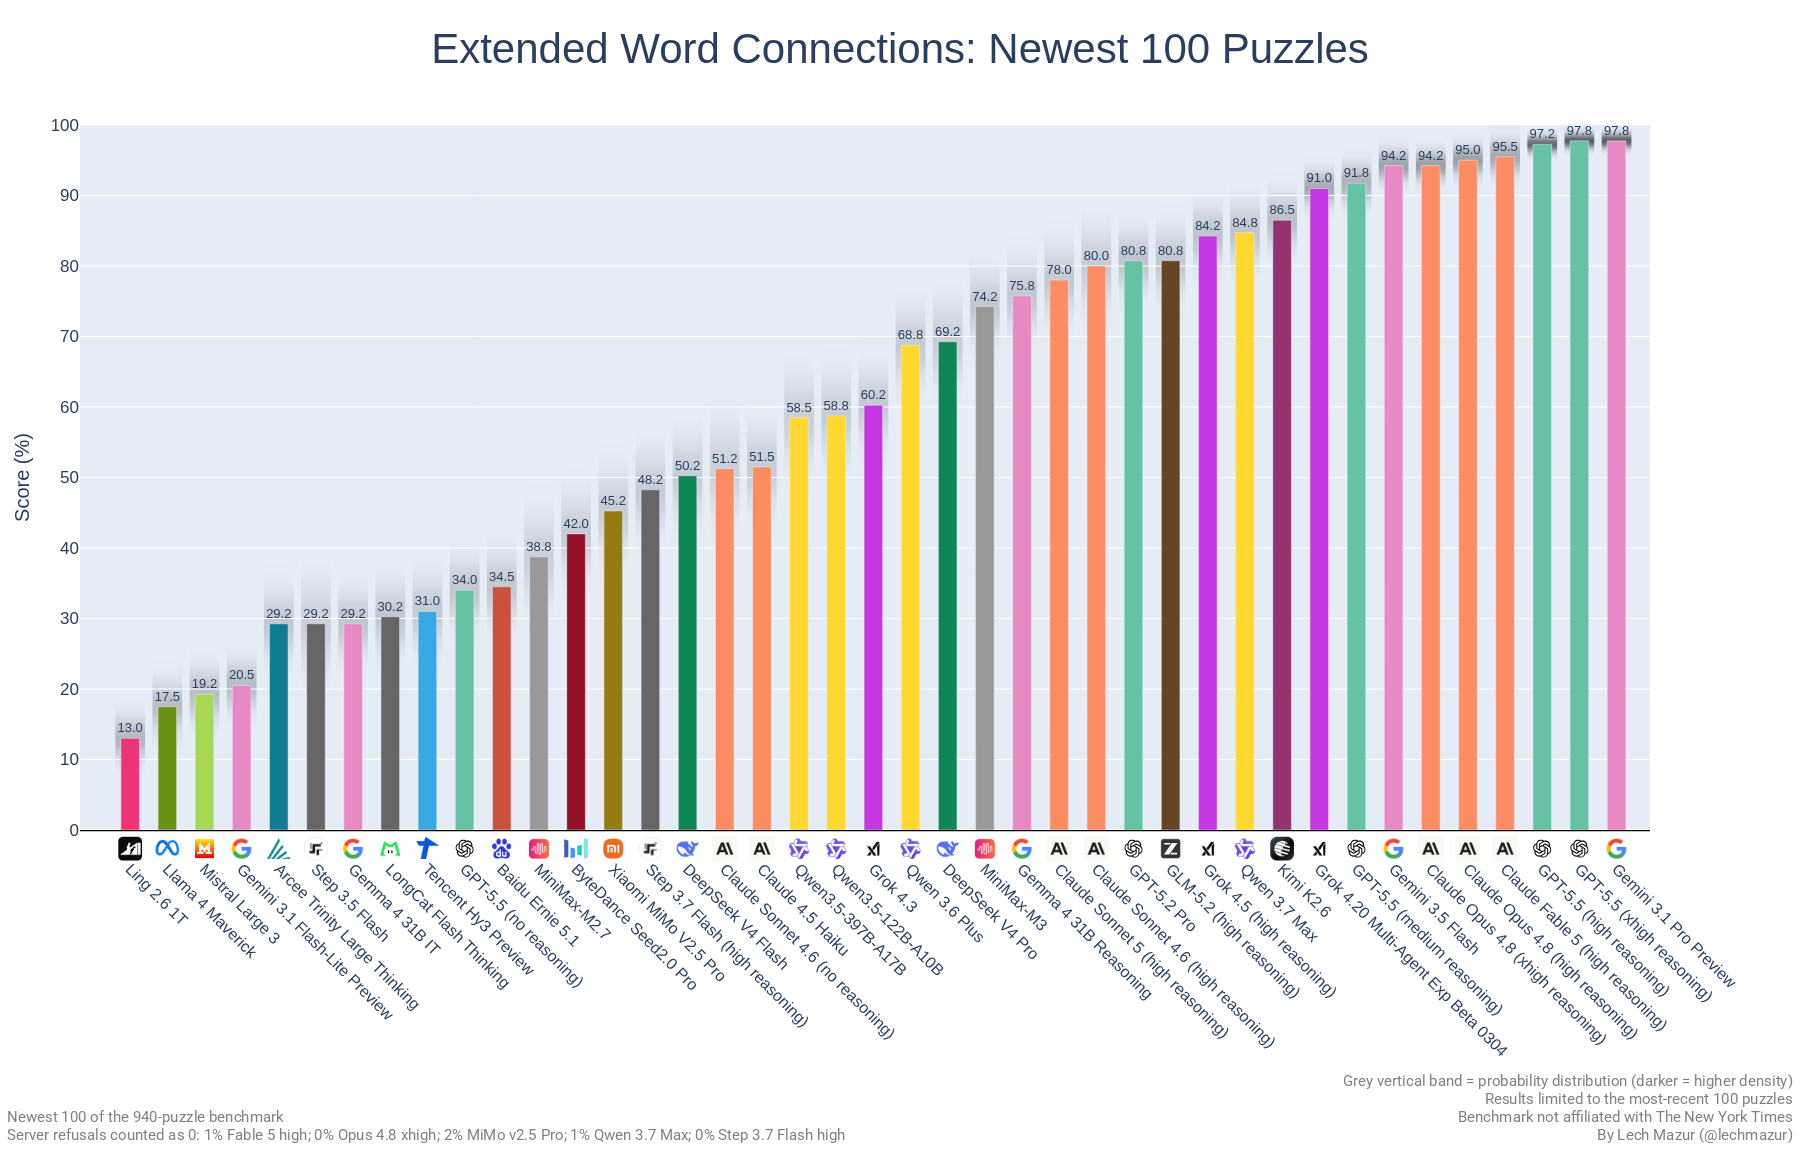
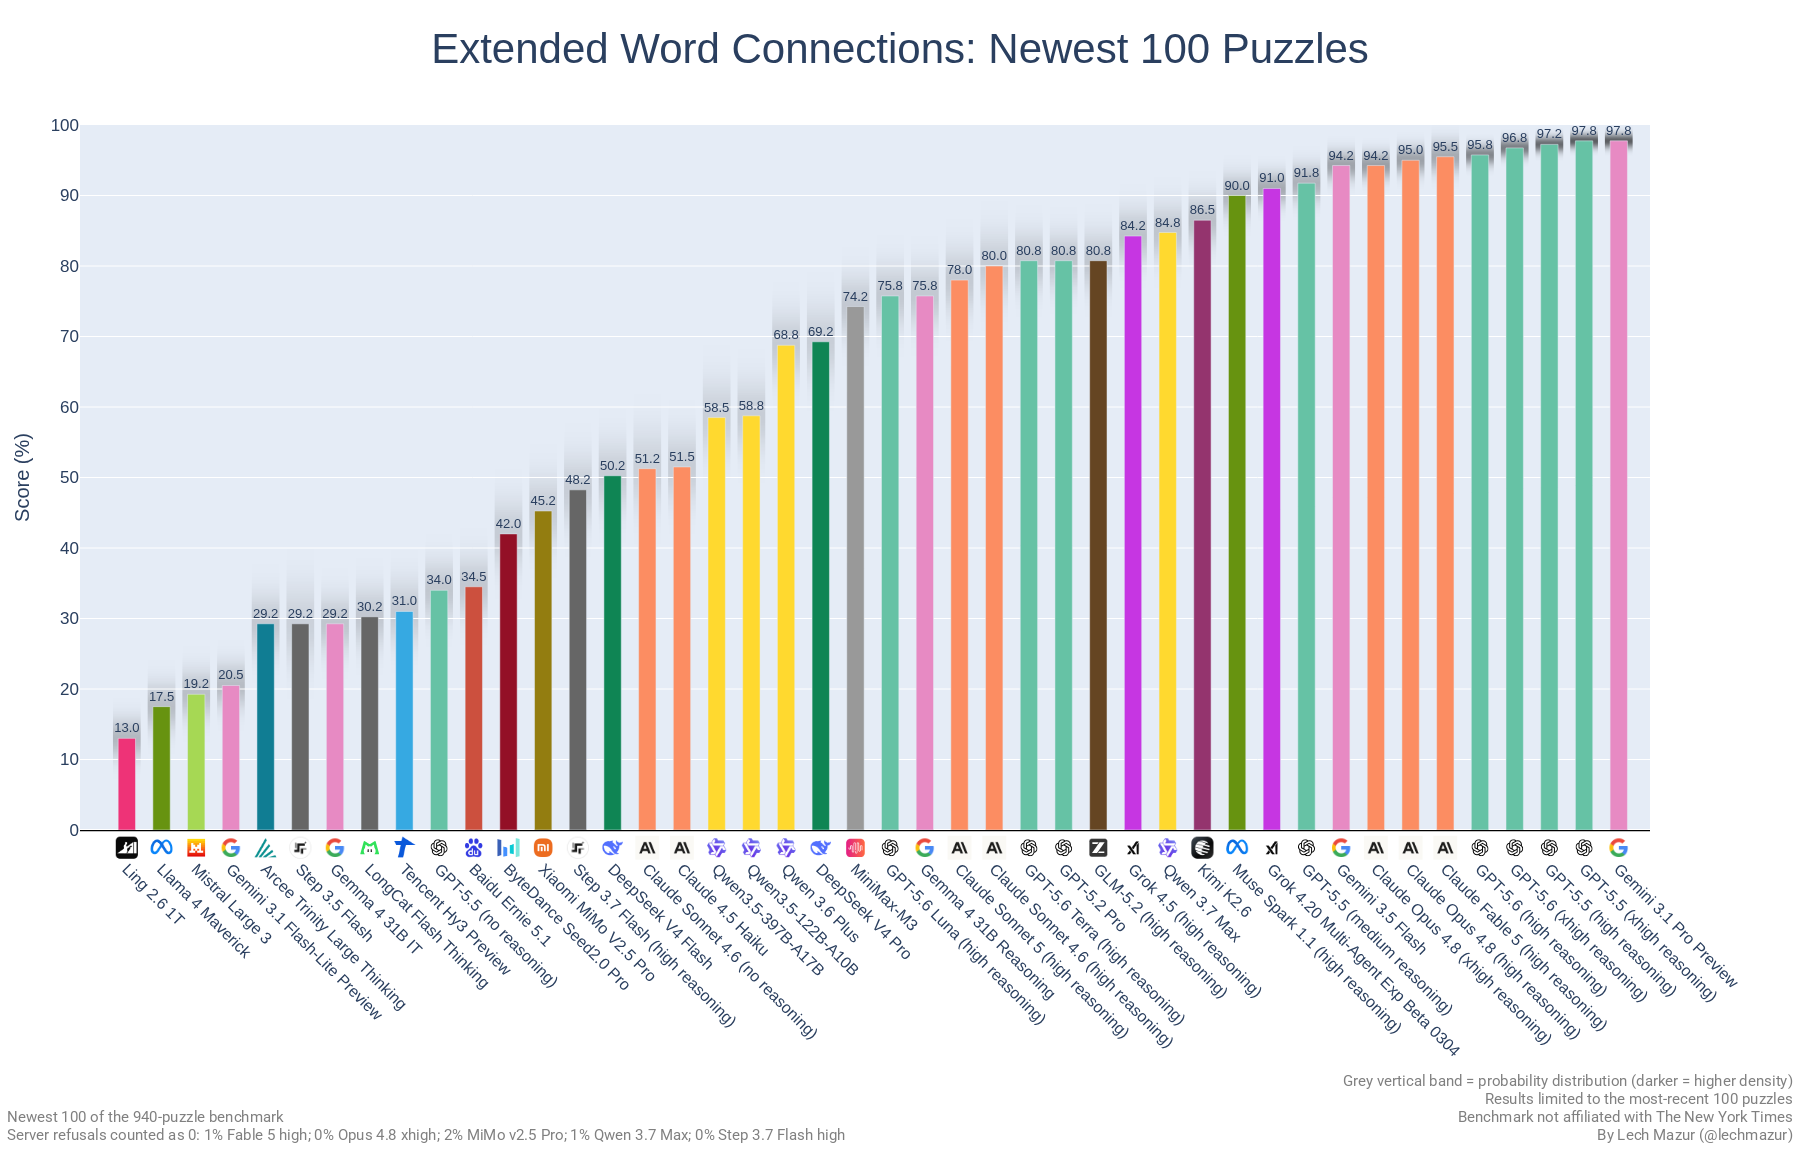
Publish GPT-5.6 and Muse report refresh
Copy the refreshed public README, score charts, and cost-vs-performance chart into the published NYT Connections mirror.

Changed region(s): [[0.0622, 0.0913, 0.9644, 0.913], [0.4356, 0.8826, 0.4667, 0.913]]

diff --git a/README.md b/README.md
@@ -16,88 +16,94 @@ As of Feb 4, 2025, there is a new version of the benchmark. The standard NYT Con
 |2|GPT-5.5 (xhigh reasoning)|97.5|940|
 |3|GPT-5.5 (high reasoning)|96.9|940|
 |4|Gemini 3 Pro Preview|96.3|940|
-|5|Gemini 3.5 Flash|95.2|940|
-|6|Claude Fable 5 (high reasoning)|95.1|940|
-|7|GPT-5.5 (medium reasoning)|95.0|940|
-|8|Claude Opus 4.6 (high reasoning)|94.7|940|
-|9|Claude Opus 4.8 (xhigh reasoning)|94.1|940|
-|10|GPT-5.4 (xhigh reasoning)|94.0|940|
-|11|GPT-5.4 (high reasoning)|93.6|940|
-|12|Grok 4.20 Multi-Agent Exp Beta 0304|93.4|940|
-|13|Claude Opus 4.8 (high reasoning)|92.2|940|
-|14|GPT-5.4 (medium reasoning)|92.0|940|
-|15|Grok 4.1 Fast Reasoning|91.8|940|
-|16|Kimi K2.6|91.4|940|
-|17|Grok 4.20 0309 (Reasoning)|90.4|940|
-|18|Qwen 3.7 Max|89.8|940|
-|19|Grok 4.20 Reasoning Exp Beta 0304|89.5|940|
-|20|GPT-5.2 (xhigh reasoning)|88.6|940|
-|21|Gemini 3 Flash Preview|88.4|940|
-|22|GPT-5.2 Pro|85.7|940|
-|23|Claude Sonnet 4.6 (high reasoning)|85.7|940|
-|24|GLM-5.1|84.4|940|
-|25|Claude Sonnet 5 (high reasoning)|82.8|940|
-|26|Claude Sonnet 4.6 Thinking 32K|82.4|940|
-|27|Qwen 3.6 Max Preview|82.2|940|
-|28|GLM-5|81.8|940|
-|29|GLM-5.2 (high reasoning)|81.7|940|
-|30|Claude Opus 4.6 Thinking 16K|81.7|940|
-|31|Gemma 4 31B Reasoning|79.5|940|
-|32|Kimi K2.5 Thinking|78.3|940|
-|33|GPT-5.2 (high reasoning)|77.5|940|
-|34|DeepSeek V4 Pro|75.7|940|
-|35|MiniMax-M3|75.3|940|
-|36|GPT-5.4 Mini (xhigh reasoning)|71.8|940|
-|37|GPT-5.2 (medium reasoning)|71.4|940|
-|38|Qwen 3.6 Plus|71.3|940|
-|39|Qwen3.5-397B-A17B|69.3|940|
-|40|Grok 4.3|67.5|940|
-|41|GPT-5.2 (low reasoning)|66.8|940|
-|42|Qwen3.5-122B-A10B|63.6|940|
-|43|Claude Opus 4.5 Thinking 16K|62.6|940|
-|44|Qwen3.5-27B|60.8|940|
-|45|Claude Opus 4.5 (no reasoning)|60.3|940|
-|46|Claude Sonnet 4.6 Thinking 16K|57.6|940|
-|47|Claude Opus 4.6 (no reasoning)|56.8|940|
-|48|Claude Sonnet 4.6 (no reasoning)|55.2|940|
-|49|Step 3.7 Flash (high reasoning)|53.6|940|
-|50|DeepSeek V4 Flash|53.2|940|
-|51|DeepSeek V3.2|50.2|940|
-|52|Claude Sonnet 4.5 Thinking 16K|49.4|940|
-|53|Xiaomi MiMo V2.5 Pro|48.0|940|
-|54|Claude Sonnet 4.5 (no reasoning)|47.4|940|
-|55|Qwen3 Max (2026-01-23)|42.1|940|
-|56|ByteDance Seed2.0 Pro|42.1|940|
-|57|Claude Opus 4.7 (high reasoning)|41.0|940|
-|58|Xiaomi MiMo V2 Pro|41.0|940|
-|59|Baidu Ernie 5.1|38.5|940|
-|60|GPT-5.5 (no reasoning)|37.5|940|
-|61|Step 3.5 Flash|36.7|940|
-|62|MiniMax-M2.7|35.3|940|
-|63|GPT-5.4 (no reasoning)|32.8|940|
-|64|LongCat Flash Thinking|31.0|940|
-|65|Tencent Hy3 Preview|30.2|940|
-|66|Gemma 4 31B IT|30.1|940|
-|67|MiniMax-M2.5|29.6|940|
-|68|Arcee Trinity Large Thinking|29.5|940|
-|69|GPT-5.2 (no reasoning)|28.1|940|
-|70|MiniMax-M2|27.0|940|
-|71|Nemotron 3 Super|26.9|940|
-|72|Claude 4.5 Haiku|26.0|940|
-|73|Mistral Medium 3.5 (high)|25.2|940|
-|74|Grok 4.1 Fast Non-Reasoning|25.1|940|
-|75|Qwen 3 Max Thinking|24.2|940|
-|76|MiniMax-M2.1|22.7|940|
-|77|Baidu Ernie 5.0|21.2|940|
-|78|Gemini 3.1 Flash-Lite Preview|19.7|940|
-|79|Grok 4.20 0309 (Non-Reasoning)|19.2|940|
-|80|Llama 4 Maverick|18.4|940|
-|81|DeepSeek V3.2 (no reasoning)|17.8|940|
-|82|Grok 4.20 Non-Reasoning Exp Beta 0304|17.6|940|
-|83|Mistral Large 3|17.2|940|
-|84|Mistral Medium 3.1|15.5|940|
-|85|Claude Opus 4.7 (no reasoning)|15.3|940|
-|86|Ling 2.6 1T|10.8|940|
+|5|GPT-5.6 (xhigh reasoning)|96.1|940|
+|6|Gemini 3.5 Flash|95.2|940|
+|7|Claude Fable 5 (high reasoning)|95.1|940|
+|8|GPT-5.5 (medium reasoning)|95.0|940|
+|9|Claude Opus 4.6 (high reasoning)|94.7|940|
+|10|GPT-5.6 (high reasoning)|94.2|940|
+|11|Claude Opus 4.8 (xhigh reasoning)|94.1|940|
+|12|GPT-5.4 (xhigh reasoning)|94.0|940|
+|13|GPT-5.4 (high reasoning)|93.6|940|
+|14|Grok 4.20 Multi-Agent Exp Beta 0304|93.4|940|
+|15|Claude Opus 4.8 (high reasoning)|92.2|940|
+|16|GPT-5.4 (medium reasoning)|92.0|940|
+|17|Grok 4.1 Fast Reasoning|91.8|940|
+|18|Kimi K2.6|91.4|940|
+|19|Grok 4.20 0309 (Reasoning)|90.4|940|
+|20|Qwen 3.7 Max|89.8|940|
+|21|Muse Spark 1.1 (high reasoning)|89.6|940|
+|22|Grok 4.20 Reasoning Exp Beta 0304|89.5|940|
+|23|GPT-5.2 (xhigh reasoning)|88.6|940|
+|24|Gemini 3 Flash Preview|88.4|940|
+|25|Grok 4.5 (high reasoning)|86.5|940|
+|26|GPT-5.2 Pro|85.7|940|
+|27|Claude Sonnet 4.6 (high reasoning)|85.7|940|
+|28|GPT-5.6 Terra (high reasoning)|84.7|940|
+|29|GLM-5.1|84.4|940|
+|30|Claude Sonnet 5 (high reasoning)|82.8|940|
+|31|Claude Sonnet 4.6 Thinking 32K|82.4|940|
+|32|Qwen 3.6 Max Preview|82.2|940|
+|33|GLM-5|81.8|940|
+|34|GLM-5.2 (high reasoning)|81.7|940|
+|35|Claude Opus 4.6 Thinking 16K|81.7|940|
+|36|Gemma 4 31B Reasoning|79.5|940|
+|37|GPT-5.6 Luna (high reasoning)|78.4|940|
+|38|Kimi K2.5 Thinking|78.3|940|
+|39|GPT-5.2 (high reasoning)|77.5|940|
+|40|DeepSeek V4 Pro|75.7|940|
+|41|MiniMax-M3|75.3|940|
+|42|GPT-5.4 Mini (xhigh reasoning)|71.8|940|
+|43|GPT-5.2 (medium reasoning)|71.4|940|
+|44|Qwen 3.6 Plus|71.3|940|
+|45|Qwen3.5-397B-A17B|69.3|940|
+|46|Grok 4.3|67.5|940|
+|47|GPT-5.2 (low reasoning)|66.8|940|
+|48|Qwen3.5-122B-A10B|63.6|940|
+|49|Claude Opus 4.5 Thinking 16K|62.6|940|
+|50|Qwen3.5-27B|60.8|940|
+|51|Claude Opus 4.5 (no reasoning)|60.3|940|
+|52|Claude Sonnet 4.6 Thinking 16K|57.6|940|
+|53|Claude Opus 4.6 (no reasoning)|56.8|940|
+|54|Claude Sonnet 4.6 (no reasoning)|55.2|940|
+|55|Step 3.7 Flash (high reasoning)|53.6|940|
+|56|DeepSeek V4 Flash|53.2|940|
+|57|DeepSeek V3.2|50.2|940|
+|58|Claude Sonnet 4.5 Thinking 16K|49.4|940|
+|59|Xiaomi MiMo V2.5 Pro|48.0|940|
+|60|Claude Sonnet 4.5 (no reasoning)|47.4|940|
+|61|Qwen3 Max (2026-01-23)|42.1|940|
+|62|ByteDance Seed2.0 Pro|42.1|940|
+|63|Claude Opus 4.7 (high reasoning)|41.0|940|
+|64|Xiaomi MiMo V2 Pro|41.0|940|
+|65|Baidu Ernie 5.1|38.5|940|
+|66|GPT-5.5 (no reasoning)|37.5|940|
+|67|Step 3.5 Flash|36.7|940|
+|68|MiniMax-M2.7|35.3|940|
+|69|GPT-5.4 (no reasoning)|32.8|940|
+|70|LongCat Flash Thinking|31.0|940|
+|71|Tencent Hy3 Preview|30.2|940|
+|72|Gemma 4 31B IT|30.1|940|
+|73|MiniMax-M2.5|29.6|940|
+|74|Arcee Trinity Large Thinking|29.5|940|
+|75|GPT-5.2 (no reasoning)|28.1|940|
+|76|MiniMax-M2|27.0|940|
+|77|Nemotron 3 Super|26.9|940|
+|78|Claude 4.5 Haiku|26.0|940|
+|79|Mistral Medium 3.5 (high)|25.2|940|
+|80|Grok 4.1 Fast Non-Reasoning|25.1|940|
+|81|Qwen 3 Max Thinking|24.2|940|
+|82|MiniMax-M2.1|22.7|940|
+|83|Baidu Ernie 5.0|21.2|940|
+|84|Gemini 3.1 Flash-Lite Preview|19.7|940|
+|85|Grok 4.20 0309 (Non-Reasoning)|19.2|940|
+|86|Llama 4 Maverick|18.4|940|
+|87|DeepSeek V3.2 (no reasoning)|17.8|940|
+|88|Grok 4.20 Non-Reasoning Exp Beta 0304|17.6|940|
+|89|Mistral Large 3|17.2|940|
+|90|Mistral Medium 3.1|15.5|940|
+|91|Claude Opus 4.7 (no reasoning)|15.3|940|
+|92|Ling 2.6 1T|10.8|940|
 
 ---
 ## Model comparison scatter charts
@@ -116,7 +122,7 @@ This chart compares benchmark score against model introduction date on the same 
 
 ### Cost vs. performance
 
-This chart compares estimated average cost per puzzle with benchmark score. The cost-chart policy focuses on current full-coverage models and keeps Claude Fable 5 (high reasoning) labeled as the next priority after the highlighted point.
+This chart compares estimated average cost per puzzle with benchmark score. The cost-chart policy focuses on current full-coverage models, labels the new GPT-5.6 and Muse runs, and keeps Claude Fable 5 (high reasoning) visible.
 
 ![Cost vs. performance](images/model_cost_vs_performance.png)
 
@@ -142,89 +148,95 @@ To counteract the possibility of an LLM's training data including the solutions,
 |1|Gemini 3.1 Pro Preview|97.8|100|
 |2|GPT-5.5 (xhigh reasoning)|97.8|100|
 |3|GPT-5.5 (high reasoning)|97.2|100|
-|4|GPT-5.4 (xhigh reasoning)|96.0|100|
-|5|Claude Fable 5 (high reasoning)|95.5|100|
-|6|Gemini 3 Pro Preview|95.2|100|
-|7|Claude Opus 4.8 (high reasoning)|95.0|100|
-|8|Claude Opus 4.8 (xhigh reasoning)|94.2|100|
-|9|Gemini 3.5 Flash|94.2|100|
-|10|GPT-5.4 (high reasoning)|93.0|100|
-|11|GPT-5.5 (medium reasoning)|91.8|100|
-|12|Claude Opus 4.6 (high reasoning)|91.5|100|
-|13|Grok 4.20 Multi-Agent Exp Beta 0304|91.0|100|
-|14|GPT-5.4 (medium reasoning)|90.2|100|
-|15|Kimi K2.6|86.5|100|
-|16|Grok 4.20 0309 (Reasoning)|85.5|100|
-|17|Grok 4.20 Reasoning Exp Beta 0304|85.2|100|
-|18|GPT-5.2 (xhigh reasoning)|85.0|100|
-|19|Qwen 3.7 Max|84.8|100|
-|20|GLM-5.1|84.2|100|
-|21|Grok 4.1 Fast Reasoning|83.8|100|
-|22|Claude Opus 4.6 Thinking 16K|82.8|100|
-|23|GLM-5.2 (high reasoning)|80.8|100|
-|24|GPT-5.2 Pro|80.8|100|
-|25|Claude Sonnet 4.6 (high reasoning)|80.0|100|
-|26|Qwen 3.6 Max Preview|78.5|100|
-|27|Claude Sonnet 5 (high reasoning)|78.0|100|
-|28|Claude Sonnet 4.6 Thinking 32K|77.2|100|
-|29|GPT-5.2 (high reasoning)|77.0|100|
-|30|Gemma 4 31B Reasoning|75.8|100|
-|31|GLM-5|75.5|100|
-|32|MiniMax-M3|74.2|100|
-|33|Kimi K2.5 Thinking|73.2|100|
-|34|GPT-5.4 Mini (xhigh reasoning)|72.0|100|
-|35|Gemini 3 Flash Preview|71.8|100|
-|36|DeepSeek V4 Pro|69.2|100|
-|37|Qwen 3.6 Plus|68.8|100|
-|38|GPT-5.2 (medium reasoning)|67.0|100|
-|39|Claude Opus 4.5 Thinking 16K|62.5|100|
-|40|GPT-5.2 (low reasoning)|61.3|100|
-|41|Grok 4.3|60.2|100|
-|42|Qwen3.5-122B-A10B|58.8|100|
-|43|Qwen3.5-397B-A17B|58.5|100|
-|44|Qwen3.5-27B|58.2|100|
-|45|Claude Sonnet 4.6 Thinking 16K|54.8|100|
-|46|Claude Opus 4.5 (no reasoning)|54.5|100|
-|47|Claude Sonnet 4.5 Thinking 16K|54.0|100|
-|48|Claude Sonnet 4.5 (no reasoning)|53.2|100|
-|49|Claude 4.5 Haiku|51.5|100|
-|50|Claude Sonnet 4.6 (no reasoning)|51.2|100|
-|51|DeepSeek V4 Flash|50.2|100|
-|52|Claude Opus 4.6 (no reasoning)|50.0|100|
-|53|Step 3.7 Flash (high reasoning)|48.2|100|
-|54|Xiaomi MiMo V2.5 Pro|45.2|100|
-|55|Qwen3 Max (2026-01-23)|42.5|100|
-|56|DeepSeek V3.2|42.2|100|
-|57|ByteDance Seed2.0 Pro|42.0|100|
-|58|Claude Opus 4.7 (high reasoning)|41.8|100|
-|59|MiniMax-M2.7|38.8|100|
-|60|Xiaomi MiMo V2 Pro|38.0|100|
-|61|Baidu Ernie 5.1|34.5|100|
-|62|GPT-5.5 (no reasoning)|34.0|100|
-|63|GPT-5.4 (no reasoning)|33.8|100|
-|64|Tencent Hy3 Preview|31.0|100|
-|65|LongCat Flash Thinking|30.2|100|
-|66|MiniMax-M2.5|29.8|100|
-|67|Gemma 4 31B IT|29.2|100|
-|68|Step 3.5 Flash|29.2|100|
-|69|Arcee Trinity Large Thinking|29.2|100|
-|70|GPT-5.2 (no reasoning)|29.0|100|
-|71|Mistral Medium 3.5 (high)|27.8|100|
-|72|MiniMax-M2.1|24.0|100|
-|73|Qwen 3 Max Thinking|23.8|100|
-|74|Nemotron 3 Super|22.2|100|
-|75|MiniMax-M2|22.0|100|
-|76|Grok 4.1 Fast Non-Reasoning|21.0|100|
-|77|Gemini 3.1 Flash-Lite Preview|20.5|100|
-|78|Baidu Ernie 5.0|20.2|100|
-|79|Grok 4.20 0309 (Non-Reasoning)|20.0|100|
-|80|Mistral Large 3|19.2|100|
-|81|Grok 4.20 Non-Reasoning Exp Beta 0304|17.8|100|
-|82|Llama 4 Maverick|17.5|100|
-|83|DeepSeek V3.2 (no reasoning)|16.8|100|
-|84|Mistral Medium 3.1|16.8|100|
-|85|Claude Opus 4.7 (no reasoning)|15.8|100|
-|86|Ling 2.6 1T|13.0|100|
+|4|GPT-5.6 (xhigh reasoning)|96.8|100|
+|5|GPT-5.4 (xhigh reasoning)|96.0|100|
+|6|GPT-5.6 (high reasoning)|95.8|100|
+|7|Claude Fable 5 (high reasoning)|95.5|100|
+|8|Gemini 3 Pro Preview|95.2|100|
+|9|Claude Opus 4.8 (high reasoning)|95.0|100|
+|10|Claude Opus 4.8 (xhigh reasoning)|94.2|100|
+|11|Gemini 3.5 Flash|94.2|100|
+|12|GPT-5.4 (high reasoning)|93.0|100|
+|13|GPT-5.5 (medium reasoning)|91.8|100|
+|14|Claude Opus 4.6 (high reasoning)|91.5|100|
+|15|Grok 4.20 Multi-Agent Exp Beta 0304|91.0|100|
+|16|GPT-5.4 (medium reasoning)|90.2|100|
+|17|Muse Spark 1.1 (high reasoning)|90.0|100|
+|18|Kimi K2.6|86.5|100|
+|19|Grok 4.20 0309 (Reasoning)|85.5|100|
+|20|Grok 4.20 Reasoning Exp Beta 0304|85.2|100|
+|21|GPT-5.2 (xhigh reasoning)|85.0|100|
+|22|Qwen 3.7 Max|84.8|100|
+|23|GLM-5.1|84.2|100|
+|24|Grok 4.5 (high reasoning)|84.2|100|
+|25|Grok 4.1 Fast Reasoning|83.8|100|
+|26|Claude Opus 4.6 Thinking 16K|82.8|100|
+|27|GLM-5.2 (high reasoning)|80.8|100|
+|28|GPT-5.2 Pro|80.8|100|
+|29|GPT-5.6 Terra (high reasoning)|80.8|100|
+|30|Claude Sonnet 4.6 (high reasoning)|80.0|100|
+|31|Qwen 3.6 Max Preview|78.5|100|
+|32|Claude Sonnet 5 (high reasoning)|78.0|100|
+|33|Claude Sonnet 4.6 Thinking 32K|77.2|100|
+|34|GPT-5.2 (high reasoning)|77.0|100|
+|35|Gemma 4 31B Reasoning|75.8|100|
+|36|GPT-5.6 Luna (high reasoning)|75.8|100|
+|37|GLM-5|75.5|100|
+|38|MiniMax-M3|74.2|100|
+|39|Kimi K2.5 Thinking|73.2|100|
+|40|GPT-5.4 Mini (xhigh reasoning)|72.0|100|
+|41|Gemini 3 Flash Preview|71.8|100|
+|42|DeepSeek V4 Pro|69.2|100|
+|43|Qwen 3.6 Plus|68.8|100|
+|44|GPT-5.2 (medium reasoning)|67.0|100|
+|45|Claude Opus 4.5 Thinking 16K|62.5|100|
+|46|GPT-5.2 (low reasoning)|61.3|100|
+|47|Grok 4.3|60.2|100|
+|48|Qwen3.5-122B-A10B|58.8|100|
+|49|Qwen3.5-397B-A17B|58.5|100|
+|50|Qwen3.5-27B|58.2|100|
+|51|Claude Sonnet 4.6 Thinking 16K|54.8|100|
+|52|Claude Opus 4.5 (no reasoning)|54.5|100|
+|53|Claude Sonnet 4.5 Thinking 16K|54.0|100|
+|54|Claude Sonnet 4.5 (no reasoning)|53.2|100|
+|55|Claude 4.5 Haiku|51.5|100|
+|56|Claude Sonnet 4.6 (no reasoning)|51.2|100|
+|57|DeepSeek V4 Flash|50.2|100|
+|58|Claude Opus 4.6 (no reasoning)|50.0|100|
+|59|Step 3.7 Flash (high reasoning)|48.2|100|
+|60|Xiaomi MiMo V2.5 Pro|45.2|100|
+|61|Qwen3 Max (2026-01-23)|42.5|100|
+|62|DeepSeek V3.2|42.2|100|
+|63|ByteDance Seed2.0 Pro|42.0|100|
+|64|Claude Opus 4.7 (high reasoning)|41.8|100|
+|65|MiniMax-M2.7|38.8|100|
+|66|Xiaomi MiMo V2 Pro|38.0|100|
+|67|Baidu Ernie 5.1|34.5|100|
+|68|GPT-5.5 (no reasoning)|34.0|100|
+|69|GPT-5.4 (no reasoning)|33.8|100|
+|70|Tencent Hy3 Preview|31.0|100|
+|71|LongCat Flash Thinking|30.2|100|
+|72|MiniMax-M2.5|29.8|100|
+|73|Gemma 4 31B IT|29.2|100|
+|74|Step 3.5 Flash|29.2|100|
+|75|Arcee Trinity Large Thinking|29.2|100|
+|76|GPT-5.2 (no reasoning)|29.0|100|
+|77|Mistral Medium 3.5 (high)|27.8|100|
+|78|MiniMax-M2.1|24.0|100|
+|79|Qwen 3 Max Thinking|23.8|100|
+|80|Nemotron 3 Super|22.2|100|
+|81|MiniMax-M2|22.0|100|
+|82|Grok 4.1 Fast Non-Reasoning|21.0|100|
+|83|Gemini 3.1 Flash-Lite Preview|20.5|100|
+|84|Baidu Ernie 5.0|20.2|100|
+|85|Grok 4.20 0309 (Non-Reasoning)|20.0|100|
+|86|Mistral Large 3|19.2|100|
+|87|Grok 4.20 Non-Reasoning Exp Beta 0304|17.8|100|
+|88|Llama 4 Maverick|17.5|100|
+|89|DeepSeek V3.2 (no reasoning)|16.8|100|
+|90|Mistral Medium 3.1|16.8|100|
+|91|Claude Opus 4.7 (no reasoning)|15.8|100|
+|92|Ling 2.6 1T|13.0|100|
 
 ---
 # Humans vs. LLMs
@@ -430,6 +442,7 @@ These models are excluded from the main board because they ran fewer than 940 to
 ---
 
 ## Updates
+- July 9, 2026: GPT-5.6 high/xhigh/Luna/Terra and Muse Spark 1.1 high added; score charts and cost-vs-performance chart refreshed.
 - July 9, 2026: Cost vs. performance chart policy refreshed with Claude Fable 5 high reasoning kept visibly labeled after the highlighted point.
 - June 30, 2026: Claude Sonnet 5 high reasoning added; GLM-5.2 max partial run added to older models.
 - June 19, 2026: GLM-5.2 high reasoning, Claude Fable 5, and MiniMax-M3 added.